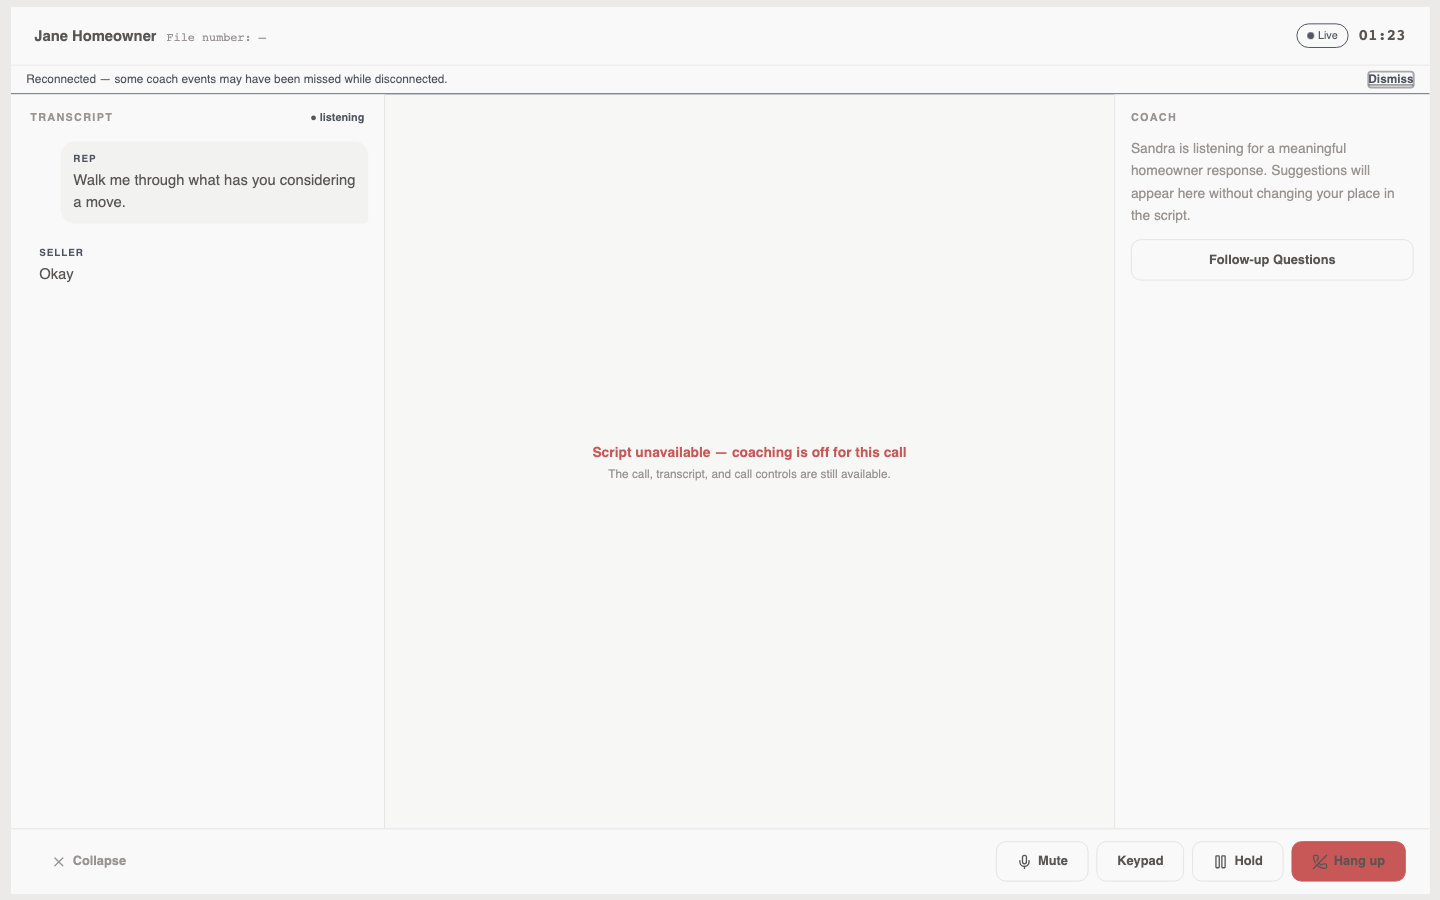
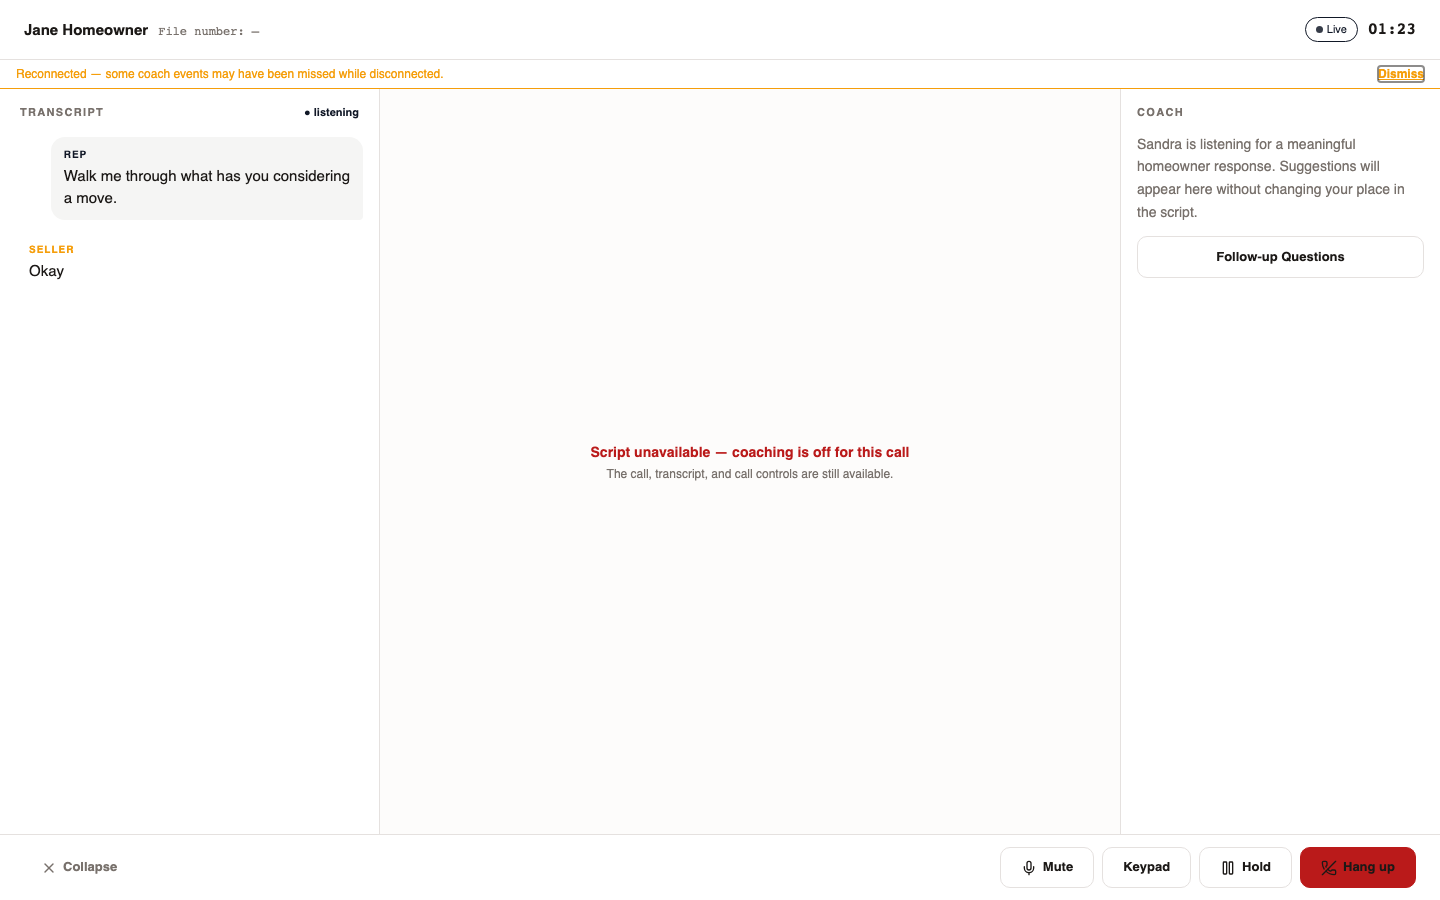
fix(coach): close V2 review blockers

diff --git a/src/components/coach/coach-live-view.tsx b/src/components/coach/coach-live-view.tsx
@@ -1,8 +1,8 @@
 "use client";
 
 import { ChevronLeftIcon, ChevronRightIcon, Loader2Icon, MicIcon, MicOffIcon, PauseIcon, PhoneOffIcon, PlayIcon, XIcon } from "lucide-react";
-import { useCallback, useEffect, useLayoutEffect, useMemo, useRef, useState } from "react";
-import { ScriptNavigator, type NavigatorState } from "@biginkc/coach/react";
+import { lazy, Suspense, useCallback, useEffect, useLayoutEffect, useMemo, useRef, useState } from "react";
+import type { NavigatorState } from "@biginkc/coach/react";
 
 import { PhoneKeypad } from "@/components/softphone/phone-keypad";
 import { Badge } from "@/components/ui/badge";
@@ -36,6 +36,11 @@ import { isNearTranscriptBottom } from "@/lib/coach/transcript-scroll";
 import { isCoachScriptV2Enabled } from "@/lib/coach/flags";
 import { cn } from "@/lib/utils";
 import { HoldTimer } from "./hold-timer";
+
+// The shared navigator has browser-only dependencies. Loading it lazily keeps
+// the legacy coach (including its synthetic audio harness) independent from
+// that module when the V2 flag is off.
+const ScriptNavigator = lazy(() => import("@biginkc/coach/react").then(({ ScriptNavigator: Navigator }) => ({ default: Navigator })));
 
 export type CoachCallStatus = "connecting" | "ringing" | "live" | "audio_reconnecting" | "audio_reconnect_required" | "ended" | "failed" | null;
 
@@ -210,12 +215,17 @@ export function CoachLiveView(props: CoachLiveViewProps) {
       : null,
     [branchOverrides, bundle, nextSectionId, sectionBranchSelections, selectCtx, tokens],
   );
+  const recommendationSectionId = scriptV2Enabled
+    ? session.navigatorState?.activeSectionId ?? activeSectionId
+    : activeSectionId;
   const activePhaseId = scriptBlock?.phaseId ?? bundle?.script.phases[0]?.id ?? "unavailable";
   const recommendations = useCoachRecommendations({
     callId: session.callId,
-    activeSectionId,
-    selectedSectionBranch: scriptBlock?.selectedBranchTag ?? null,
-    branchOverrides: selectedVariants,
+    activeSectionId: recommendationSectionId,
+    selectedSectionBranch: scriptV2Enabled
+      ? session.navigatorState?.sectionBranchSelections[recommendationSectionId] ?? null
+      : scriptBlock?.selectedBranchTag ?? null,
+    branchOverrides: scriptV2Enabled ? session.navigatorState?.branchOverrides ?? {} : selectedVariants,
     transcript: state.transcript,
     request: recommendationRequest,
     continuity: session.recommendationContinuity,
@@ -280,6 +290,7 @@ export function CoachLiveView(props: CoachLiveViewProps) {
         holdTimer={held ? state.holdTimer : null}
         fileNumber={resolveFileNumber(activeContext)}
         bundle={bundle}
+        showPhaseScroller={!scriptV2Enabled}
         scriptRefLabel={scriptV2Enabled && session.scriptBinding ? `${session.scriptBinding.ref.slug}@${session.scriptBinding.ref.revision} · locked for this call` : null}
       />
       {callStatus === "audio_reconnecting" || callStatus === "audio_reconnect_required" ? (
@@ -384,6 +395,7 @@ function CoachTopBar({
   fileNumber,
   bundle,
   scriptRefLabel,
+  showPhaseScroller,
 }: {
   callName: string;
   activePhaseId: CoachPhaseId;
@@ -396,6 +408,7 @@ function CoachTopBar({
   fileNumber: ResolvedToken;
   bundle: import("@biginkc/coach").ScriptBundle | null;
   scriptRefLabel: string | null;
+  showPhaseScroller: boolean;
 }) {
   const preConnectLabel = callStatus === "connecting" ? "Connecting…" : callStatus === "ringing" ? "Ringing…" : null;
   const timerLabel = held ? "On hold" : preConnectLabel ?? timerText(seconds);
@@ -431,7 +444,7 @@ function CoachTopBar({
         ) : null}
         <span className="font-mono text-base font-semibold tabular-nums" data-testid="coach-call-timer">{timerLabel}</span>
       </div>
-      <ol className="flex min-w-0 items-center gap-1 overflow-x-auto px-4 pb-2" aria-label="Call phases" data-testid="coach-phase-scroller">
+      {showPhaseScroller ? <ol className="flex min-w-0 items-center gap-1 overflow-x-auto px-4 pb-2" aria-label="Call phases" data-testid="coach-phase-scroller">
         {bundle?.script.phases.map((phase) => {
           const phaseId = phase.id;
           const fullName = phase?.name ?? phaseId;
@@ -466,7 +479,7 @@ function CoachTopBar({
             </li>
           );
         })}
-      </ol>
+      </ol> : null}
     </div>
   );
 }
@@ -480,7 +493,9 @@ function ScriptNavigatorPanel({ bundle, ref, context, initialState, onStateChang
 }) {
   return (
     <main className="min-h-[28rem] min-w-0 flex-1 overflow-y-auto border-b border-border xl:min-h-0 xl:border-b-0" data-testid="coach-script-v2-panel">
-      <ScriptNavigator bundle={bundle} ref={ref} context={context} initialState={initialState} onStateChange={onStateChange} refLabel={`${ref.slug}@${ref.revision} · locked for this call`} />
+      <Suspense fallback={<div data-testid="coach-script-v2-loading" aria-live="polite">Loading script…</div>}>
+        <ScriptNavigator bundle={bundle} ref={ref} context={context} initialState={initialState} onStateChange={onStateChange} refLabel={`${ref.slug}@${ref.revision} · locked for this call`} />
+      </Suspense>
     </main>
   );
 }
@@ -512,7 +527,7 @@ function TranscriptFeed({ lines, degraded }: { lines: CoachTranscriptLine[]; deg
   return (
     <aside
       aria-label="Live transcript"
-      className="flex h-48 w-full shrink-0 flex-col overflow-hidden border-b border-border bg-[var(--coach-rail)] xl:h-auto xl:min-h-0 xl:border-r xl:border-b-0"
+      className="flex h-48 w-full min-w-0 shrink-0 flex-col overflow-hidden border-b border-border bg-[var(--coach-rail)] xl:h-auto xl:min-h-0 xl:border-r xl:border-b-0"
     >
       <div className="flex items-center justify-between px-5 pt-4 pb-2.5 text-[11px] font-extrabold tracking-[0.12em] text-muted-foreground uppercase">
         Transcript

diff --git a/e2e/synthetic/coach-live-contrast.spec.ts b/e2e/synthetic/coach-live-contrast.spec.ts
@@ -12,7 +12,7 @@ import sharp from "sharp";
 // Keep the probe's negative controls: computed swatches alone cannot catch
 // opacity, descendant colors, or text crossing multiple backgrounds.
 let compiledCss = "";
-let harnessBundle = "";
+const harnessBundles = new Map<"off" | "on", string>();
 
 test.beforeAll(async () => {
   const globalsPath = path.resolve(process.cwd(), "src/app/globals.css");
@@ -20,7 +20,8 @@ test.beforeAll(async () => {
   const cssResult = await postcss([tailwindcss()]).process(globalsSource, { from: globalsPath });
   compiledCss = cssResult.css;
 
-  const bundleResult = esbuild.buildSync({
+  for (const mode of ["off", "on"] as const) {
+    const bundleResult = esbuild.buildSync({
     entryPoints: [path.resolve(process.cwd(), "e2e/synthetic/fixtures/coach-live-responsive-harness.tsx")],
     bundle: true,
     platform: "browser",
@@ -36,16 +37,17 @@ test.beforeAll(async () => {
       ),
       "@": path.resolve(process.cwd(), "src"),
     },
-    define: { "process.env.NODE_ENV": '"test"', "process.env.NEXT_PUBLIC_COACH_SCRIPT_V2": '""' },
+    define: { "process.env.NODE_ENV": '"test"', "process.env.NEXT_PUBLIC_COACH_SCRIPT_V2": JSON.stringify(mode === "on" ? "1" : "") },
     write: false,
     logLevel: "silent",
-  });
-  harnessBundle = bundleResult.outputFiles[0].text;
+    });
+    harnessBundles.set(mode, bundleResult.outputFiles[0].text);
+  }
 });
 
 async function mountFullCoach(
   page: Page,
-  opts: { darkMode: boolean; withGuidance: boolean; held?: boolean; interrupted?: boolean; viewport?: { width: number; height: number } },
+  opts: { darkMode: boolean; withGuidance: boolean; scriptV2?: boolean; held?: boolean; interrupted?: boolean; viewport?: { width: number; height: number } },
 ): Promise<void> {
   await page.setViewportSize(opts.viewport ?? { width: 1440, height: 900 });
   await page.setContent(`
@@ -55,7 +57,7 @@ async function mountFullCoach(
   // Real app puts `.dark` on <html>, so the whole document — not just a
   // wrapper div — resolves the dark theme tokens, matching production.
   await page.evaluate((dark) => document.documentElement.classList.toggle("dark", dark), opts.darkMode);
-  await page.addScriptTag({ content: harnessBundle });
+  await page.addScriptTag({ content: harnessBundles.get(opts.scriptV2 ? "on" : "off")! });
   const coach = page.getByTestId("coach-live-view");
   await expect(coach).toBeVisible();
   await expect(page.locator("[data-starting-style], [data-ending-style]")).toHaveCount(0);
@@ -368,6 +370,35 @@ for (const mode of [
     await resume.hover();
     await expect(resume).toHaveCSS("background-color", "rgb(255, 255, 255)");
     assertAA("pressed hold control while hovered", await measureRenderedContrast(resume));
+  });
+
+  test(`meets WCAG AA for V2 navigator text in ${mode.label} mode`, async ({ page }) => {
+    await mountFullCoach(page, { darkMode: mode.darkMode, withGuidance: false, scriptV2: true });
+    await expect(page.getByTestId("coach-script-ref")).toBeVisible();
+    // V2 owns the only phase rail; the retired header rail must not duplicate it.
+    await expect(page.getByTestId("coach-phase-scroller")).toHaveCount(0);
+
+    const script = page.getByTestId("coach-script-v2-panel");
+    const scriptLine = script.locator(".coach-spoken-line").first();
+    const phasePill = script.locator(".coach-phase-pill").first();
+    const tabLabel = script.getByRole("tab").first();
+    const refLabel = page.getByTestId("coach-script-ref-label");
+    const counter = page.getByTestId("coach-call-timer");
+    const back = page.getByTestId("coach-back");
+    const next = page.getByTestId("coach-next");
+
+    await expect(scriptLine).toBeVisible();
+    await expect(phasePill).toBeVisible();
+    await expect(tabLabel).toBeVisible();
+    assertAA("V2 script line", await measureRenderedContrast(scriptLine));
+    assertAA("V2 phase rail label", await measureRenderedContrast(phasePill));
+    assertAA("V2 tab label", await measureRenderedContrast(tabLabel));
+    assertAA("V2 header ref label", await measureRenderedContrast(refLabel));
+    assertAA("V2 ref label", await measureRenderedContrast(page.getByTestId("coach-script-ref")));
+    assertAA("V2 call counter", await measureRenderedContrast(counter));
+    assertAA("V2 disabled Back", await measureRenderedContrast(back));
+    await next.hover();
+    assertAA("V2 Next", await measureRenderedContrast(next));
   });
 
   test(`keeps keypad digits and letters readable in ${mode.label} mode`, async ({ page }) => {

diff --git a/src/components/coach/coach-live-view.test.tsx b/src/components/coach/coach-live-view.test.tsx
@@ -190,7 +190,8 @@ describe("<CoachLiveView /> manual navigation", () => {
 
     await waitFor(() => expect(screen.getByTestId("coach-script-v2-panel")).toBeVisible());
     expect(screen.getByTestId("coach-script-ref-label")).toHaveTextContent("closr-outbound@1 · locked for this call");
-    expect(screen.getByTestId("coach-script-ref")).toHaveTextContent("closr-outbound@1 · locked for this call");
+    expect(await screen.findByTestId("coach-script-ref")).toHaveTextContent("closr-outbound@1 · locked for this call");
+    expect(screen.queryByTestId("coach-phase-scroller")).not.toBeInTheDocument();
     await user.click(screen.getByTestId("coach-next"));
     expect(screen.getByTestId("current-section-title")).toHaveTextContent("Set the qualification frame");
     await user.click(screen.getByTestId("coach-back"));
@@ -198,6 +199,31 @@ describe("<CoachLiveView /> manual navigation", () => {
     const motivation = await screen.findByTestId("coach-token-motivation");
     fireEvent.change(motivation, { target: { value: "Downsize" } });
     expect(motivation).toHaveValue("Downsize");
+  });
+
+  it("grounds V2 recommendations in the navigator's active section after Next", async () => {
+    vi.stubEnv("NEXT_PUBLIC_COACH_SCRIPT_V2", "1");
+    const recommendationRequest = vi.fn(
+      async (input: CoachRecommendationRequest): Promise<CoachRecommendationResult> => ({
+        ok: true, requestId: input.requestId, callId: input.callId,
+        activeSectionId: input.activeSectionId, mode: input.mode,
+        recommendations: [], followUpQuestions: ["What is the timeline?"],
+      }),
+    );
+    const user = userEvent.setup();
+    render(<Harness {...baseProps({ recommendationRequest })} />);
+
+    await screen.findByTestId("coach-script-ref");
+    await user.click(screen.getByTestId("coach-next"));
+    await screen.findByText("Set the qualification frame");
+    broadcast({ type: "transcript", speaker: "seller", text: "I need to move before winter.", isFinal: true, ts: "v2-grounding" });
+    await user.click(screen.getByTestId("follow-up-questions"));
+
+    await waitFor(() => expect(recommendationRequest).toHaveBeenCalledTimes(1));
+    expect(recommendationRequest.mock.calls[0]?.[0]).toMatchObject({
+      activeSectionId: "introduction.qualification-frame",
+      mode: "follow_up",
+    });
   });
 
   it("keeps file-number identity placeholder-only while loading, then shows the authorized context value", async () => {

diff --git a/src/lib/coach/use-coach-session.ts b/src/lib/coach/use-coach-session.ts
@@ -1,6 +1,6 @@
 "use client";
 
-import { useCallback, useEffect, useRef, useState } from "react";
+import { useCallback, useEffect, useState } from "react";
 
 import { loadCoachCallContext } from "./coach-context-actions";
 import { loadCoachCallScript } from "./coach-script-actions";
@@ -109,7 +109,9 @@ export function useCoachSession(
   const [scriptBinding, setScriptBinding] = useState<CoachScriptBinding | null>(null);
   const [scriptBindingStatus, setScriptBindingStatus] = useState<"loading" | "ready">("loading");
   const { dispatch, ...channel } = useCoachChannel(callId, scriptBinding, "introduction", livenessActive, sessionKey);
-  const navigatorStateRef = useRef<NavigatorState | null>(null);
+  // Navigator position changes recommendation grounding in V2, so retain it
+  // in React state rather than an imperative cache.
+  const [navigatorState, setNavigatorState] = useState<NavigatorState | null>(null);
   const [contextLoad, setContextLoad] = useState<ContextLoadState>(() => ({
     status: "loading",
     context: preparedTargetErrorContext(
@@ -150,7 +152,7 @@ export function useCoachSession(
     setSectionBranchSelections({});
     setScriptBinding(null);
     setScriptBindingStatus("loading");
-    navigatorStateRef.current = null;
+    setNavigatorState(null);
     setActiveSectionId("introduction.opener");
     setRecommendationContinuity(createCoachRecommendationContinuity(sessionKey));
   }
@@ -249,9 +251,7 @@ export function useCoachSession(
     [dispatch],
   );
   const rememberNavigatorState = useCallback((navigator: NavigatorState) => {
-    // Avoid routing every keystroke through the live-feed reducer. The ref
-    // survives this view's collapse/reopen and initializes its next mount.
-    navigatorStateRef.current = navigator;
+    setNavigatorState(navigator);
   }, []);
   const goToSection = useCallback((sectionId: CoachSectionId) => {
     if (scriptBinding && getCoachSectionById(scriptBinding.bundle, sectionId)) setActiveSectionId(sectionId);
@@ -283,7 +283,7 @@ export function useCoachSession(
     sectionBranchSelections,
     selectSectionBranch,
     setEntryField,
-    navigatorState: navigatorStateRef.current,
+    navigatorState,
     rememberNavigatorState,
     activeSectionId,
     previousSectionId,

diff --git a/e2e/synthetic/coach-audio-acceptance.spec.ts b/e2e/synthetic/coach-audio-acceptance.spec.ts
@@ -58,6 +58,9 @@ test.beforeAll(async () => {
       "process.env.NODE_ENV": '"test"',
       "process.env.NEXT_PUBLIC_SOFTPHONE_TRANSPORT": '"jitter"',
       "process.env.NEXT_PUBLIC_COACH_UI_ENABLED": '"1"',
+      // CoachLiveView reads the independent V2 gate even when this audio
+      // fixture intentionally verifies the flag-off composition.
+      "process.env.NEXT_PUBLIC_COACH_SCRIPT_V2": '""',
     },
     write: false,
     logLevel: "silent",
@@ -68,7 +71,9 @@ test.beforeAll(async () => {
 async function mountCoach(page: Page): Promise<BrowserErrorEvidence> {
   const evidence: BrowserErrorEvidence = { consoleErrors: [], pageErrors: [] };
   page.on("console", (message) => {
-    if (message.type() === "error") evidence.consoleErrors.push(message.text());
+    // React can report a caught render failure as a warning instead of a
+    // pageerror; retain it so a missing mounted coach is diagnosable.
+    if (message.type() === "error" || message.type() === "warning") evidence.consoleErrors.push(`${message.type()}: ${message.text()}`);
   });
   page.on("pageerror", (error) => evidence.pageErrors.push(error.stack ?? error.message));
   await page.setViewportSize({ width: 1440, height: 900 });
@@ -79,6 +84,9 @@ async function mountCoach(page: Page): Promise<BrowserErrorEvidence> {
   }));
   await page.goto("http://synthetic.local/");
   await page.addScriptTag({ content: harnessBundle });
+  // Surface an initialization failure at its source instead of obscuring it
+  // behind the missing coach root assertion below.
+  await expect.poll(() => evidence).toEqual({ consoleErrors: [], pageErrors: [] });
   await expect(page.getByTestId("coach-live-view")).toBeVisible();
   await expect(page.getByTestId("transport-state-history")).toContainText("audio_reconnect_required|live");
   await expect(page.getByTestId("transport-ready")).toHaveText("ready");

diff --git a/src/components/coach/coach-live-view.css b/src/components/coach/coach-live-view.css
@@ -51,9 +51,16 @@
   --coach-rail: var(--sandra-coach-card);
   --coach-secondary: var(--sandra-coach-muted-foreground);
   --coach-sky: var(--sandra-coach-primary);
-  --coach-amber: var(--sandra-coach-primary);
-  --coach-amber-text: var(--sandra-coach-primary);
+  --coach-amber: var(--alert-warning);
+  --coach-amber-text: var(--alert-warning);
   color-scheme: light dark;
+}
+
+/* The navigator's disabled Back label is still instructional text. Preserve
+   its semantic muted colour without lowering its rendered contrast via the
+   package's generic disabled opacity. */
+[data-testid="coach-live-view"].coach-script-v2 .coach-script-panel .coach-button:disabled {
+  opacity: 1;
 }
 
 [data-testid="coach-live-view"] {

diff --git a/e2e/synthetic/coach-script-v2.spec.ts b/e2e/synthetic/coach-script-v2.spec.ts
@@ -42,6 +42,9 @@ async function mount(page: Page, mode: "off" | "on", data = ""): Promise<void> {
   await page.setContent(`<style>${css}</style><div id="root" ${data}></div>`);
   await page.addScriptTag({ content: bundles.get(mode)! });
   await expect(page.getByTestId("coach-live-view")).toBeVisible();
+  // Capture the requested review screenshots after Base UI's opening
+  // transition has composited, rather than recording a faded first frame.
+  await page.waitForTimeout(350);
 }
 
 test("flag off preserves the S4 card while flag on renders three columns and the bound ref", async ({ page }) => {

diff --git a/src/app/globals.css b/src/app/globals.css
@@ -23,14 +23,6 @@
   --sandra-coach-secondary-foreground: var(--secondary-foreground);
   --sandra-coach-ring: var(--ring);
   --sandra-coach-destructive: var(--destructive);
-  --coach-background: var(--background);
-  --coach-card: var(--card);
-  --coach-foreground: var(--foreground);
-  --coach-primary: var(--primary);
-  --coach-primary-foreground: var(--primary-foreground);
-  --coach-muted: var(--muted-foreground);
-  --coach-border: var(--border);
-  --coach-radius: var(--radius);
 }
 
 @custom-variant dark (&:is(.dark *));

diff --git a/.planning/claude-convergence/pr669-fix-round-1.md b/.planning/claude-convergence/pr669-fix-round-1.md
@@ -1,0 +1,17 @@
+# PR 669 — Fix round 1
+
+- The flag-off synthetic audio harness now explicitly compiles the V2 flag as
+  disabled. Its browser bundle no longer dereferences an undefined public
+  environment variable before mounting the coach; all 13 audio cases cover
+  this mount path.
+- The shared navigator is lazy-loaded, the V2 header phase scroller is absent,
+  and the transcript grid item can shrink inside its fixed desktop track.
+- Navigator state is React state and recommendation requests use its active
+  section, branch selection, and overrides in V2. The component regression
+  advances to `introduction.qualification-frame` before requesting guidance.
+- V2 contrast coverage measures real compiled CSS in both themes for script
+  lines, navigator rail/tab labels, both ref labels, counter, Back, and Next;
+  all measurements are at least 4.5:1. The V2 disabled Back control keeps its
+  readable muted color without package opacity.
+- Removed obsolete root `--coach-*` aliases. V2 `--coach-amber*` now derives
+  from Sandra's `--alert-warning` token so reconnect status remains a warning.
